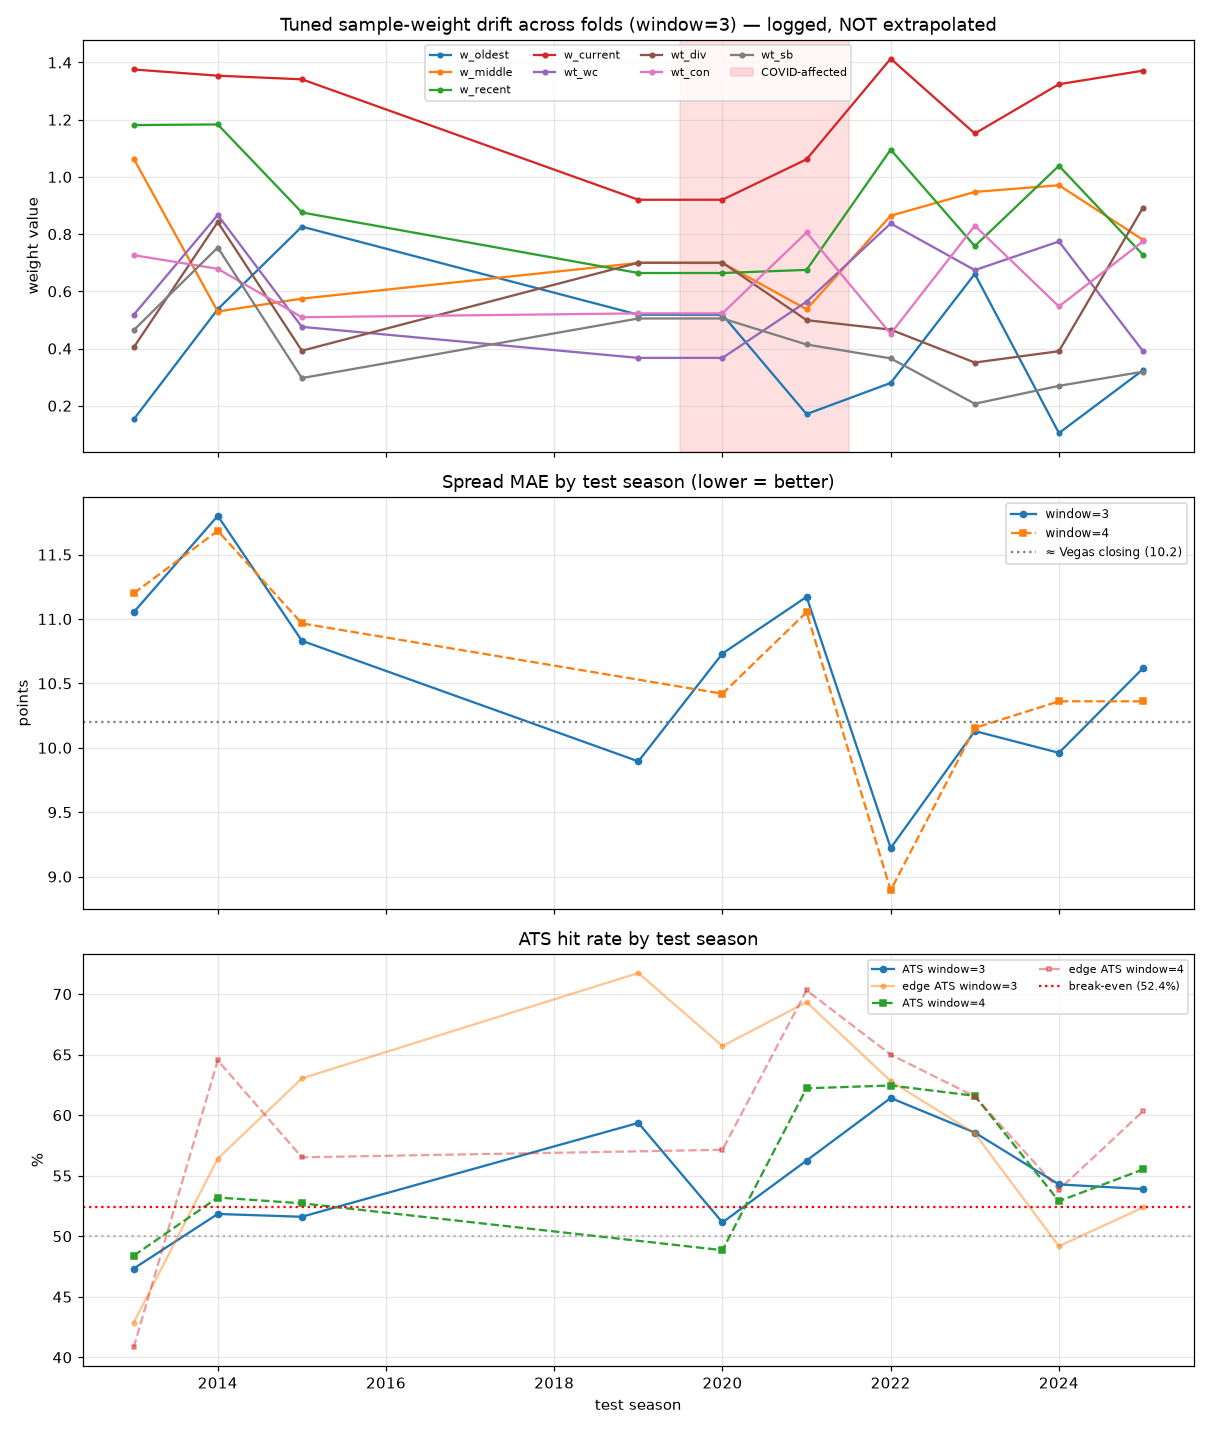
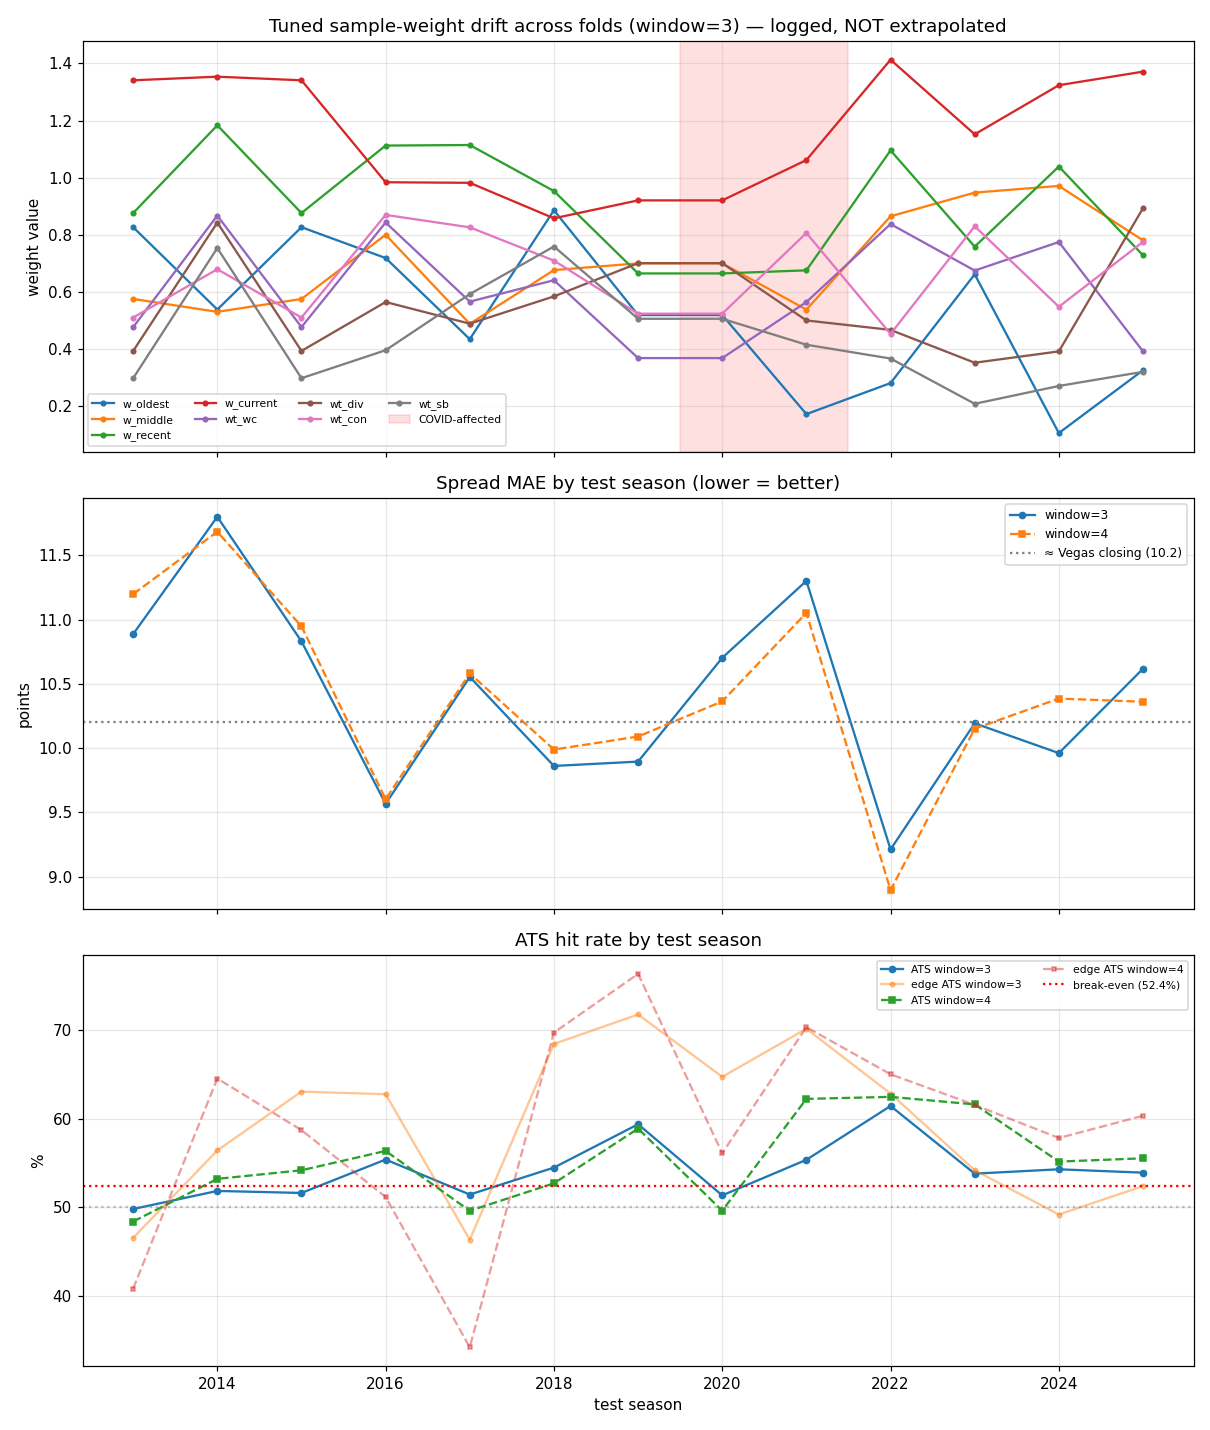
Walk-forward: corrected 26-fold summary + chart; merge script _summary fix
The merge script re-read its own _summary block as a fold row on the
second run, crashing the aggregate step - results carried a stale
19-fold summary and chart. Fixed the script, regenerated the summary
and weight-drift chart locally from the full 26 folds. Verdict logged
in WORKLOG: window 3 vs 4 practically equivalent (MAE 10.41 both);
ATS excl-COVID ~53.6%; edge ATS excl-COVID ~57% with high per-fold
variance.

diff --git a/scripts/merge_walkforward.py b/scripts/merge_walkforward.py
@@ -34,6 +34,9 @@ def main() -> None:
             merged = json.loads(OUT.read_text())
         except json.JSONDecodeError:
             merged = {}
+    # The previous run's aggregate block must not be treated as a fold row
+    # (this exact mistake once crashed the summary step mid-script).
+    merged.pop("_summary", None)
 
     fragments = sorted(FRAG.glob("wf_w*_*.json")) if FRAG.exists() else []
     if not fragments:
@@ -51,7 +54,8 @@ def main() -> None:
     shutil.copy2(OUT, DOCS / "walkforward_results.json")
 
     # ── console summary + per-window aggregates ───────────────────────────
-    rows = [v for v in merged.values() if not v.get("skipped")]
+    rows = [v for k, v in merged.items()
+            if k != "_summary" and isinstance(v, dict) and not v.get("skipped")]
     rows.sort(key=lambda r: (r["window"], r["test_season"]))
     print(f"{'season':>6} {'win':>3} {'MAEsp':>6} {'MAEtot':>6} "
           f"{'ATS%':>6} {'OU%':>6} {'edgeATS%':>8} {'ROI':>7} {'covid':>5}")

diff --git a/WORKLOG.md b/WORKLOG.md
@@ -38,6 +38,24 @@ tanítóhalmazzá válna); (2) a súly-drift extrapolációja kimaradt (paramét
   fold-izolációt ez nem sérti érdemben.
 - Ablakhossz-kérdés (3 vs 4): az aggregátumok empirikusan eldöntik.
 
+### Eredmény (26/26 fold zöld, 2 kör után)
+
+- Menet közben javítva: (1) nflverse korszakok közti dtype-drift
+  (jersey_number str↔float → pyarrow-hiba a 2016–2019-es foldokon) —
+  `_harmonize_dtypes` + safe-write; (2) a merge a régi `_summary` blokkot
+  fold-sorként olvasta vissza → kizárva.
+- **Összesítő (13-13 fold):** ablak=3: spread MAE 10,41 | ATS 54,2% (covid
+  nélkül 53,6%) | edge ATS 59,1% (covid nélkül 57,4%) | edge ROI +12,9%.
+  Ablak=4: MAE 10,41 | ATS 55,4% (53,6%) | edge ATS 59,0% (57,0%) | ROI +12,6%.
+- **Ablakhossz-verdikt:** 3 vs 4 szezon gyakorlatilag EGYENÉRTÉKŰ (MAE azonos,
+  ATS ±0,5%p) — nincs ok változtatni a jelenlegi 4+folyó ablakon.
+- **Korszak-hatás:** a 2013–2015-ös foldok gyengébbek (MAE 10,9–11,8) — kevesebb
+  forrás (nincs NGS/PFR/FTN); 2016-tól a MAE jellemzően 9,2–10,6.
+- **Óvatossági jegyzet:** az edge ATS ~57% (covid-szűrt) átlaga fold-onként
+  34–76% közt szór — a jel pozitívnak tűnik, de a vonalforrás-egységesítés
+  (mrcaseb vs schedules) előtt éles pénzre extrapolálni nem szabad; a
+  végső bizonyíték az élő, időbélyegzett 2026-os szezon lesz.
+
 ## 2026-07-13 — "Runtime round": crash-fix, frozen adatréteg, workflow-darabolás, doksi
 
 **Feladat:** (1) a pipeline nem futott le és/vagy 20+ percig tartott — gyökérok-javítás